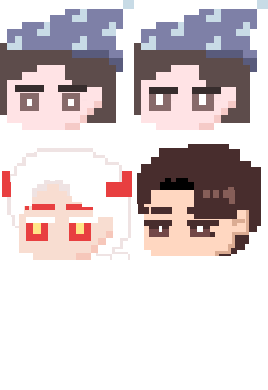
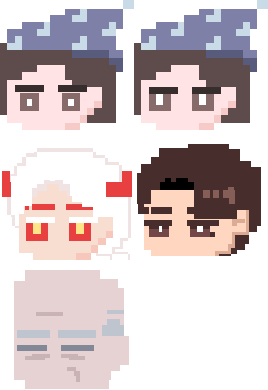
stage2 구현

Changed region(s): [[0.0299, 0.6769, 0.5075, 1.0]]

diff --git a/assets/js/stages/SecondStage.js b/assets/js/stages/SecondStage.js
@@ -52,11 +52,16 @@ export default class SecondStage extends Phaser.Scene {
 
 
         /*** npc 불러오기 ***/ 
-        this.npc = this.add.image(850,380,'npc7').setOrigin(0,0);
-      //  this.npc_old.setVisible(false);
-        this.npc.setInteractive();
-        this.npc_hot = this.add.image(750,380,'npc_hot').setOrigin(0,0);
-        this.npc_cold = this.add.image(650,380,'npc_cold').setOrigin(0,0);
+     //   this.npc_hot = this.add.image(750,380,'npc_hot').setOrigin(0,0);
+     //   this.npc_cold = this.add.image(650,380,'npc_cold').setOrigin(0,0);
+        this.anims.create({
+            key: "npc_cold_walk",
+            frames: this.anims.generateFrameNumbers('npc_cold',{ start: 0, end: 3}), 
+            frameRate: 7,
+            repeat: -1,
+        });
+        this.npc = this.physics.add.sprite(910 ,430,'npc_cold');
+        this.npc.setVisible(false);
 
         /***스폰 포인트 설정하기 locate spawn point***/
         const spawnPoint = map.findObject("spawn", obj => obj.name === "spawn_point");
@@ -74,7 +79,8 @@ export default class SecondStage extends Phaser.Scene {
         /*** 충돌 설정하기 Set Collision ***/
         this.worldLayer.setCollisionByProperty({ collides: true });
         this.physics.add.collider(this.player.player, this.worldLayer); //충돌 하도록 만들기
-
+        this.physics.add.collider(this.npc, this.worldLayer);
+        
         /*** 카메라가 비추는 화면 변수 선언 ***/
         this.worldView = this.cameras.main.worldView;
 
@@ -87,7 +93,7 @@ export default class SecondStage extends Phaser.Scene {
             hideOnComplete: true
         });
         
-        this.exclamMark = this.add.sprite( 550, 320, 'exp_exclam', 0);
+        this.exclamMark = this.add.sprite( 580, 300, 'exp_exclam', 0);
         this.exclamMark.setVisible(false);
 
         /*** 명령창 불러오기 ***/
@@ -137,22 +143,18 @@ export default class SecondStage extends Phaser.Scene {
             "  else {\n" + 
             "    printf(\"추워요\");\n  }\n}" //코드조각
         
-        //실제로는 2가지에 나눠서 쨔아함! ("더워요", "추워요")
+        //실제로는 2가지에 나눠서 쨔아함! ( this.out ==  "더워요")
         if (this.out == "1_#include <stdio.h> \n\nint main(){ \n\n  int Temp = 45;\n  if (Temp>30){\n    printf(\"더워요\");\n  }\n  else {\n    printf(\"추워요\");\n  }\n}"){
             console.log("===stage2 성공===");
             this.out = "";
-            this.cafe.setVisible(true);
-            this.cameras.main.fadeIn(1000,0,0,0);
-            ////할아버지 걸어나오는 모션
-            this.stage2_4();  
+
+            this.stage2_3_1();  
         }
         else if (this.out == "2_#include <stdio.h> \n\nint main(){ \n\n  int Temp = 45;\n  if (Temp>30){\n    printf(\"더워요\");\n  }\n  else {\n    printf(\"추워요\");\n  }\n}"){
             console.log("===stage2 실패===");
             this.out = "";
-            this.cafe.setVisible(true);
-            this.cameras.main.fadeIn(1000,0,0,0);
-            //할아버지 걸어나오는 모션
-            this.stage2_3(); 
+         
+            this.stage2_4_1(); 
        
         }
 
@@ -207,25 +209,89 @@ export default class SecondStage extends Phaser.Scene {
             this.player.playerPaused = false; //대사가 다 나오면 플레이어가 다시 움직이도록
         });     
     }
-    stage2_3() { 
-        this.time.delayedCall( 2000, () => {  //걸어나오는 모션뒤, 2초간 멈춤
-            var seq = this.plugins.get('rexsequenceplugin').add(); 
-            this.dialog.loadTextbox(this);
-            seq
-            .load(this.dialog.stage2_3, this.dialog)
-            .start();
-            seq.on('complete', () => {
-                this.cafe.setVisible(false); //다시 할아버지 카페에 앉아있게
-                
-                });   
-            }, [], this);  
-    }
-    stage2_4() {
+
+    stage2_3_1() { //미션 성공
         var seq = this.plugins.get('rexsequenceplugin').add();
         this.dialog.loadTextbox(this);
         seq
-        .load(this.dialog.stage2_4, this.dialog)
+        .load(this.dialog.stage2_3_1, this.dialog)
         .start();
+        seq.on('complete', () => {
+            this.time.delayedCall( 1500, () => { //1.5초간 옷입고
+                this.npc.setFlipX(true);
+                this.npc.setVisible(true);
+                
+                this.npc.play('npc_cold_walk',true);//걸어감
+                this.npc.setVelocityX(-100); 
+                this.cafe.setVisible(true); 
+
+                this.time.delayedCall( 2000, () => { //2초간 걷다가 멈춤.
+                    this.npc.anims.stop();
+                    this.npc.setVelocityX(0); 
+                    this.stage2_3_2();
+                 }, [] , this); 
+             }, [] , this);    
+        
+        });  
+    }
+    stage2_3_2() {
+        var seq = this.plugins.get('rexsequenceplugin').add();
+        this.dialog.loadTextbox(this);
+        seq
+        .load(this.dialog.stage2_3_2, this.dialog)
+        .start();
+        seq.on('complete', () => {
+            
+            //this.player.playerPaused = false; //대사가 다 나오면 플레이어가 다시 움직이도록
+        });     
+    }
+
+    stage2_4_1() {  //미션 실패. 산타복
+       
+        var seq = this.plugins.get('rexsequenceplugin').add(); 
+        this.dialog.loadTextbox(this);
+        seq
+        .load(this.dialog.stage2_4_1, this.dialog)
+        .start();
+        seq.on('complete', () => {
+            this.time.delayedCall( 1500, () => { //1.5초간 옷입고
+                this.npc.setFlipX(true);
+                this.npc.setVisible(true);
+                
+                this.npc.play('npc_cold_walk',true);//걸어감
+                this.npc.setVelocityX(-100); 
+                this.cafe.setVisible(true); 
+
+                this.time.delayedCall( 2000, () => { //2초간 걷다가 멈춤.
+                    this.npc.anims.stop();
+                    this.npc.setVelocityX(0); 
+                    this.stage2_4_2();
+                 }, [] , this); 
+             }, [] , this);    
+        
+        });   
+          
+    }
+    stage2_4_2() {  
+        this.time.delayedCall( 1000, () => {  //걸어나오는 모션뒤, 2초간 멈춤
+            var seq = this.plugins.get('rexsequenceplugin').add(); 
+            this.dialog.loadTextbox(this);
+            seq
+            .load(this.dialog.stage2_4_2, this.dialog)
+            .start();
+            seq.on('complete', () => {
+                this.npc.setFlipX(false);
+                this.npc.play('npc_cold_walk',true);
+                this.npc.setVelocityX(+100); //걸어감
+                
+                this.time.delayedCall( 2000, () => { //2초간 걷다가 
+                    this.npc.anims.stop();
+                    this.npc.setVelocityX(0); 
+                    this.cafe.setVisible(false); //다시 할아버지 카페에 앉아있게
+                    this.npc.setVisible(false);
+                }, [] , this);
+             });   
+            }, [], this);  
     }
  
 }

diff --git a/assets/js/Dialog.js b/assets/js/Dialog.js
@@ -289,7 +289,7 @@ visible(visible) {
     ['setFace', 0],
     ['print', '할아버지! 여긴 대체 어디죠?'],
     ['wait-click'],
-    ['setFace', 3],
+    ['setFace', 4],
     ['print', '껄껄 코딩지옥은 처음인가 보구나!'],
     ['wait-click'],
     ['print', '내 부탁을 좀 들어주면 묻는 말에 대답해주지'],
@@ -300,25 +300,42 @@ visible(visible) {
     ['wait-click'],
     ['visible',false],
   ]
-  stage2_3 = [
+  stage2_3_1 = [
     ['visible',true],
     ['place', 40,10],
-    ['setFace', 0],
-    ['setFace', 3],
-    ['print', '자네! 이 옷차림은 아닌것 같은데?'],
+    ['setFace', 4],
     ['wait-click'],
-    ['print', '다시 한번 말해주게!!!'],
+    ['print', '날이 덥다고? 알겠네 조금만 기다리게'],
     ['wait-click'],
     ['visible',false],
   ]
-  stage2_4 = [
+  stage2_3_2 = [
     ['visible',true],
     ['place', 40,10],
-    ['setFace', 3],
-    ['wait-click'],
+    ['setFace', 4],
     ['print', '그래 이거야!'],
     ['wait-click'],
     ['print', '이제 코딩지옥에 대해 설명해주지 솰라솰라~~ '],
+    ['wait-click'],
+    ['visible',false],
+  ]
+
+  stage2_4_1 = [
+    ['visible',true],
+    ['place', 40,10],
+    ['setFace', 4],
+    ['wait-click'],
+    ['print', '날이 춥다고? 알겠네 조금만 기다리게'],
+    ['wait-click'],
+    ['visible',false],
+  ]
+  stage2_4_2 = [
+    ['visible',true],
+    ['place', 40,10],
+    ['setFace', 4],
+    ['print', '자네! 이 옷차림은 아닌것 같은데?'],
+    ['wait-click'],
+    ['print', '다시 한번 말해주게!!!'],
     ['wait-click'],
     ['visible',false],
   ]

diff --git a/assets/js/Start.js b/assets/js/Start.js
@@ -110,8 +110,11 @@ class Start extends Phaser.Scene {
     
     /** 2번째 스테이지의 npc 로드 **/
       this.load.image("npc7", "./assets/images/npc/npc7.png");
-      this.load.image("npc_hot", "./assets/images/stage2/npc_hot.png");
-      this.load.image("npc_cold", "./assets/images/stage2/npc_cold.png");
+ 
+      this.load.spritesheet('npc_cold', './assets/images/stage2/npc_cold.png', {
+        frameWidth: 65,
+        frameHeight: 128,
+      });
     
     /** 2번째 스테이지 이미지 로드 **/
       this.load.image("cafe", "./assets/images/stage2/cafe.png");
